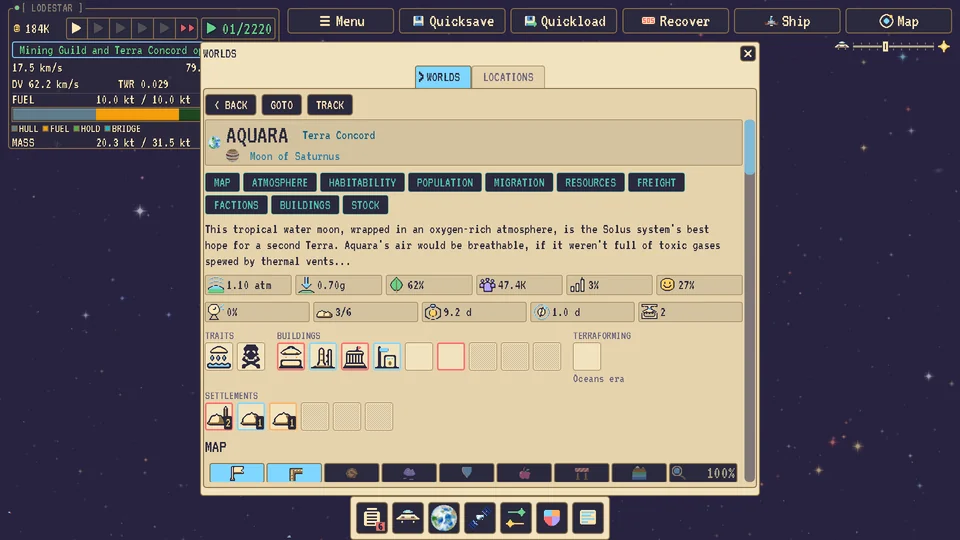
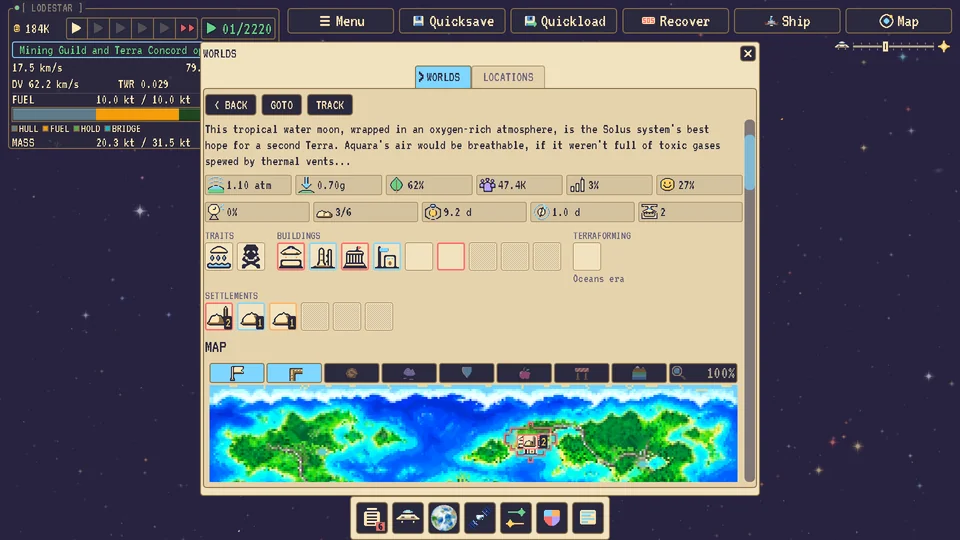
Aquara world page scrolled to its surface map

Changed region(s): [[0.1875, 0.2074, 0.8125, 0.9185]]

diff --git a/index.html b/index.html
@@ -114,7 +114,7 @@
       <img src="img/panel-world-info-aquara-960.webp"
            srcset="img/panel-world-info-aquara-960.webp 960w, img/panel-world-info-aquara.webp 1920w"
            sizes="100vw" width="1920" height="1080" loading="lazy"
-           alt="Aquara's world page twenty years in: its description, atmosphere, habitability, population, buildings and settlements">
+           alt="Aquara's world page twenty years in: its description and stats above a surface map of jungle islands, roads and a settlement">
     </figure>
   </section>
   <section class="spread">
